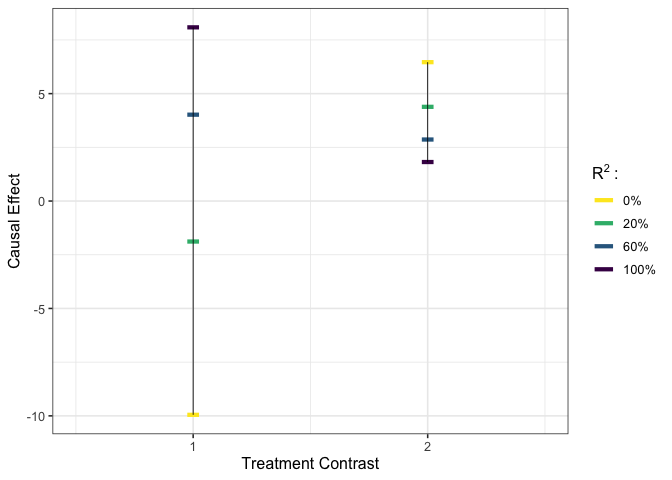
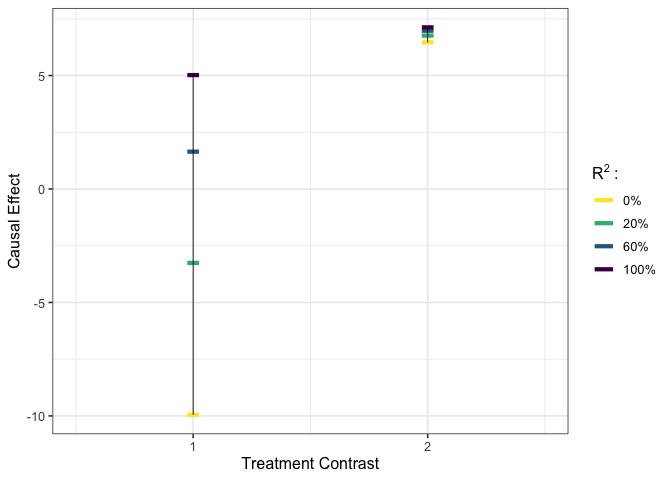
use CVXR for optimization

diff --git a/README.md b/README.md
@@ -66,12 +66,12 @@ plot_estimates(est_g1, show_rv = TRUE)
 ``` r
 # execute multivariate calibration #
 est_g2 <- gcalibrate(y = y, tr = tr, t1 = tr[1:10,], t2 = tr[11:20,],
-                     calitype = "multicali", penalty_weight = c(0, 15))
+                     calitype = "multicali", R2_constr = c(1, 0.15))
 #> Fitting the latent confounder model by PPCA with default.
 #> 1:2:3:4:5:6:7:8:9:10:1:2:3:4:5:6:7:8:9:10:1:2:3:4:5:6:7:8:9:10:1:2:3:4:5:6:7:8:9:10:1:2:3:4:5:6:7:8:9:10:
 #> Observed outcome model fitted by simple linear regression with default.
 #> Multivariate calibration executed.
-#> Calibrating with penalty_weight = 0  15
+#> Calibrating with R2_constr = 1  0.15
 # visualize #
 plot_estimates(est_g2)
 ```
@@ -203,21 +203,21 @@ multcali_results_L1 <- gcalibrate(y, tr, t1 = t1, t2 = t2, calitype = "multicali
                                   mu_y_dt = as.matrix(beta_t), sigma_y_t =  sigma_y_t_hat,
                                   mu_u_dt = u_t_diff, cov_u_t = cov_u_t_hat, normtype = "L1")
 #> Multivariate calibration executed.
-#> Calibrating with penalty_weight = 0
+#> Calibrating with R2_constr = 1
 # with L2 norm #
 multcali_results_L2 <- gcalibrate(y, tr, t1 = t1, t2 = t2, calitype = "multicali", 
                                   mu_y_dt = as.matrix(beta_t), sigma_y_t =  sigma_y_t_hat,
                                   mu_u_dt = u_t_diff, cov_u_t = cov_u_t_hat, normtype = "L2")
 #> Multivariate calibration executed.
-#> Calibrating with penalty_weight = 0
+#> Calibrating with R2_constr = 1
 ```
 
 Below, we visualize the analysis results. The Spearman’s rank
 correlation between the estimated treatment effects of Miao et
 al. (2020) with the null treatment assumption (“miao\_nulltr”) and ones
-by our MCC procedure with the L1 (“multicali\_L1”) or L2 minimization
-(“multicali\_L2”) are 0.90 and 0.93 respectively. In the plot below, the
-blue, green and yellow bars are closely grouped together for majority of
+by our MCC procedure with either the L1 (“multicali\_L1”) or L2
+minimization (“multicali\_L2”) is 0.93. In the plot below, the blue,
+green and yellow bars are closely grouped together for majority of
 treatments.
 
 ``` r
